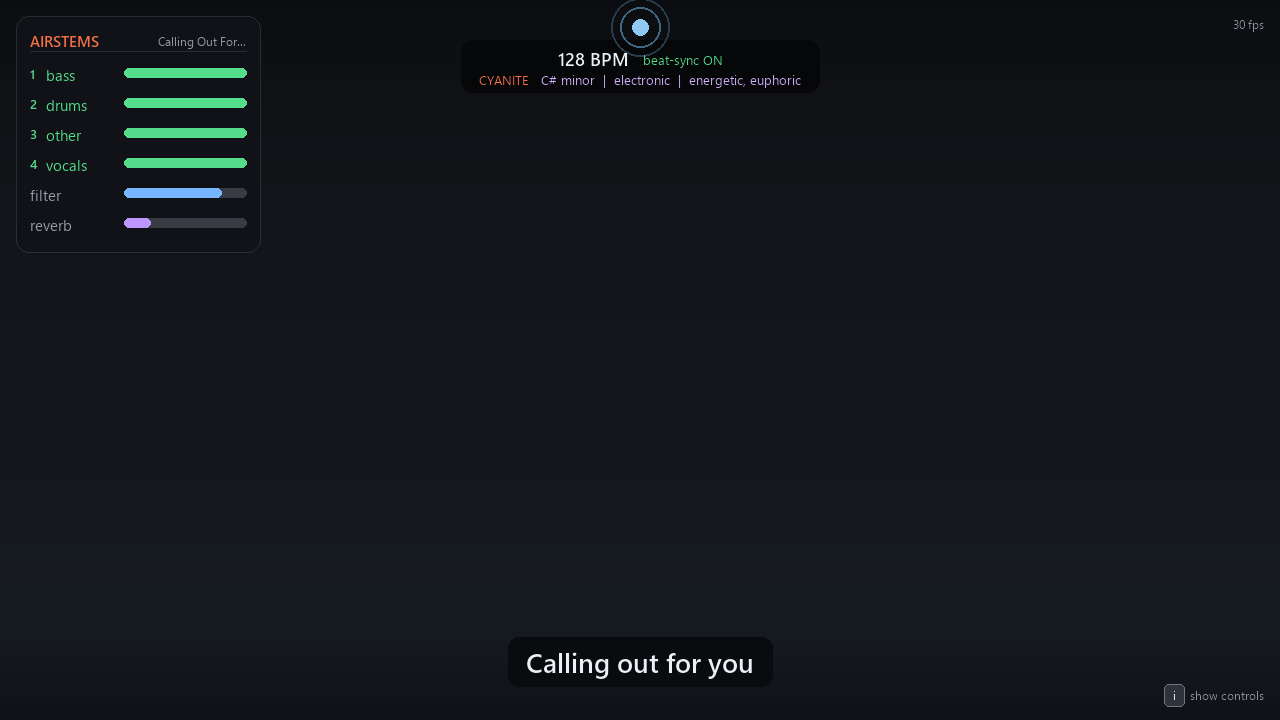
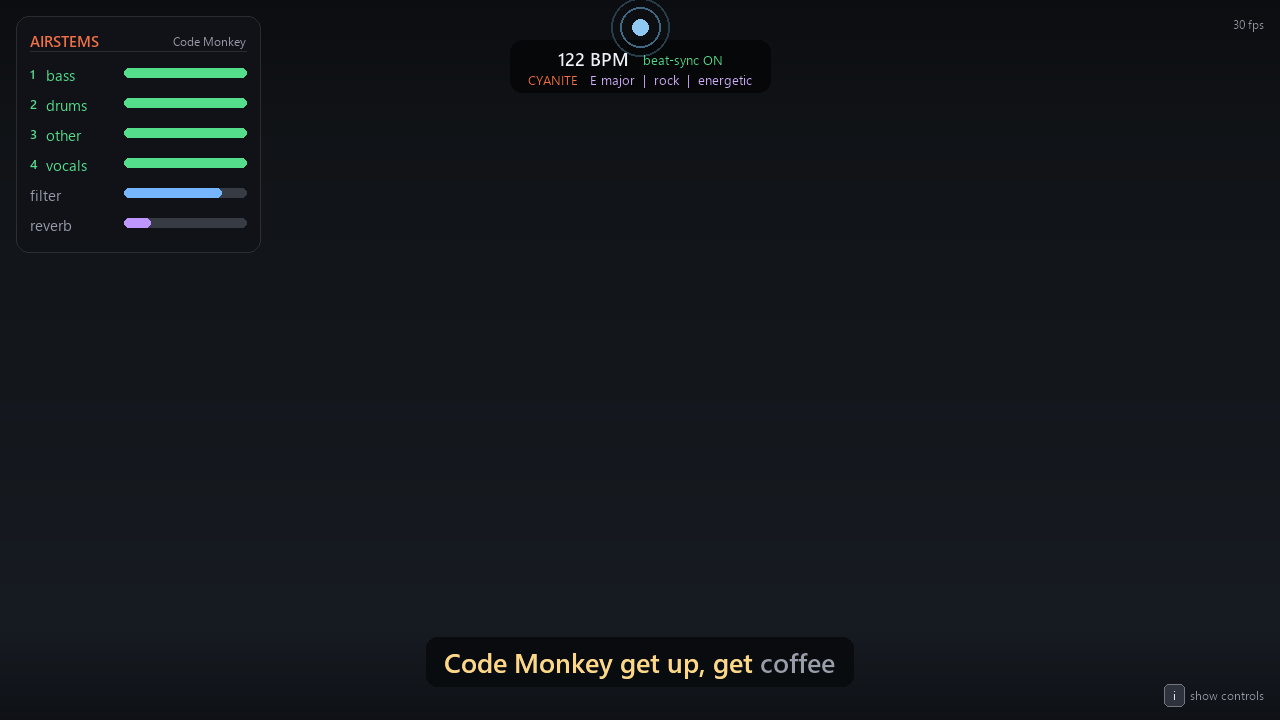
Pages: feature Code Monkey showcase + CC attribution

Changed region(s): [[0.3438, 0.8861, 0.6562, 0.9472], [0.375, 0.0917, 0.625, 0.1222], [0.1562, 0.0306, 0.1875, 0.0611]]

diff --git a/docs/index.html b/docs/index.html
@@ -135,7 +135,7 @@ python -m venv venv
 pip install -r requirements.txt
 
 # prepare any song in one command (stems + lyrics + analysis):
-python prep.py "song.mp3" --artist "Baauer" --title "Calling Out For U"
+python prep.py "song.mp3" --artist "Jonathan Coulton" --title "Code Monkey"
 
 python airstems.py        # then click the window and use your hands</pre>
     <p class="sub" style="margin-top:16px">Full instructions, gesture map and architecture are in the <a href="https://github.com/lluisestape-upc/AirStems#readme">README</a>.</p>
@@ -145,7 +145,8 @@ python airstems.py        # then click the window and use your hands</pre>
 <footer>
   <div class="wrap">
     AirStems — built for the <b style="color:var(--text)">Musicathon by Musixmatch</b>, 2026 · by Lluís Estapé<br>
-    <a href="https://github.com/lluisestape-upc/AirStems">github.com/lluisestape-upc/AirStems</a>
+    <a href="https://github.com/lluisestape-upc/AirStems">github.com/lluisestape-upc/AirStems</a><br>
+    <span style="font-size:13px">Demo track: “Code Monkey” by <a href="https://www.jonathancoulton.com/">Jonathan Coulton</a> — CC BY-NC 3.0</span>
   </div>
 </footer>
 